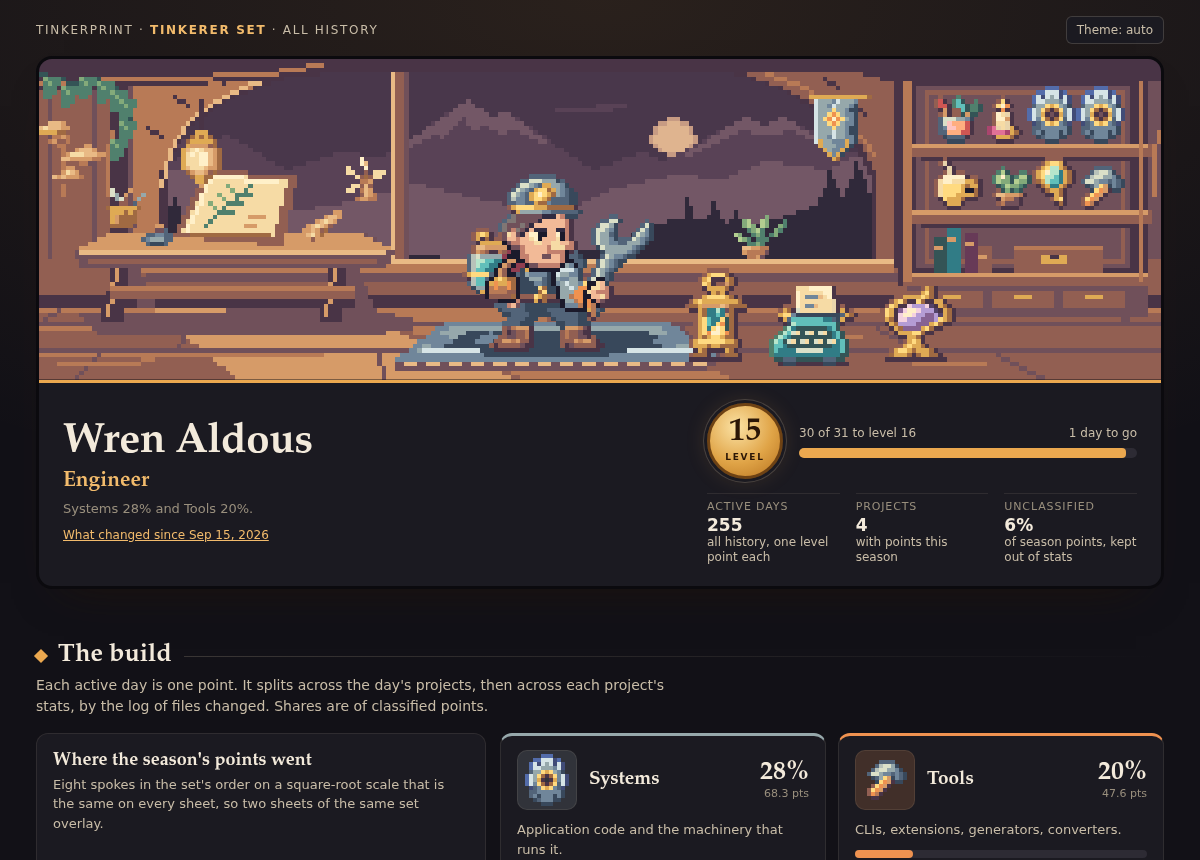
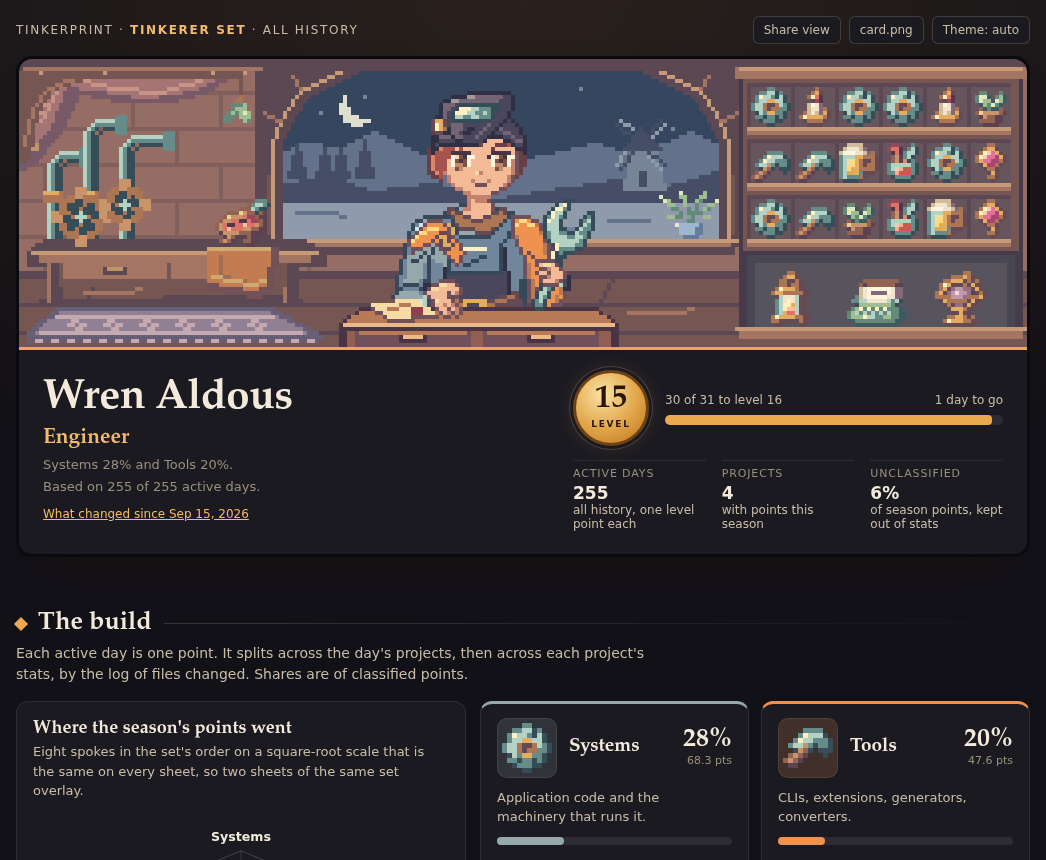
Retake the README images and show the idle loop
docs/tobi.png and docs/wren.png are the demo sheets at 1046 px, where
the whole room fits at 4x, taken with reduced motion so they show the
still frame. docs/card.png is the demo's own card.png. docs/idle.gif is
Wren's room idling at 2x, near the top of the README. Every alt text
describes the new pictures.

Claude-Session: https://claude.ai/code/session_01BXxzvsAxGdctTVcthoTJy9

diff --git a/README.md b/README.md
@@ -4,17 +4,19 @@ Turn your git history and your coding-agent logs into an RPG stat sheet.
 
 Stats on a radar, a class from your two strongest stats with a pixel portrait to match, a level, a few dated achievements, a chronicle of your classes by quarter, and a party: the agents that worked beside you. It runs on your machine and reads only what is already there. Nothing is uploaded.
 
+![An invented tinkerer's workshop, idling: an engineer in goggles holds a spanner at the counter, a windmill stands beyond the window, and a lantern, a typewriter and an orrery stand in the case](docs/idle.gif)
+
 ## What it makes
 
 A private sheet, one HTML file per profile. Here are the demo's two invented people, a developer on the builder set and a tinkerer on the tinkerer set:
 
-![Sheet for Tobi Marsh, an invented developer: an alchemist in a lantern-lit workshop with a storm lantern and a typewriter as familiars, a nameplate with level seal, then the radar and stat cards](docs/tobi.png)
+![Sheet for Tobi Marsh, an invented developer: an alchemist in a blue hood at the counter of a workshop, with a telescope on the bench, a viaduct through the window, and a wick lantern and a typewriter, the party's instruments, in the case; below, a nameplate with level seal, then the build](docs/tobi.png)
 
-![Sheet for Wren Aldous, an invented tinkerer, in the dark theme](docs/wren.png)
+![Sheet for Wren Aldous, an invented tinkerer, in the dark theme: an engineer in goggles holding a spanner, a windmill through the window, and three party instruments in the case](docs/wren.png)
 
 And a share card, `card.png`, that carries only what you allow:
 
-![Share card for Tobi Marsh, an invented developer: Alchemist with Duelist as multiclass, level 15, a pixel portrait, top stats Logic 35%, Data 20%, Interface 15% and Tests 10%, four achievements by month, a radar, Claude Code and Codex in the party, and a footer naming tinkerprint](docs/card.png)
+![Share card for Tobi Marsh, an invented developer: Alchemist with Duelist as multiclass, level 15, a pixel portrait at a workshop window, top stats Logic 35%, Data 20%, Interface 15% and Tests 10%, four achievements by month, a radar, Claude Code and Codex in the party, and a footer naming tinkerprint](docs/card.png)
 
 ## Install
 
